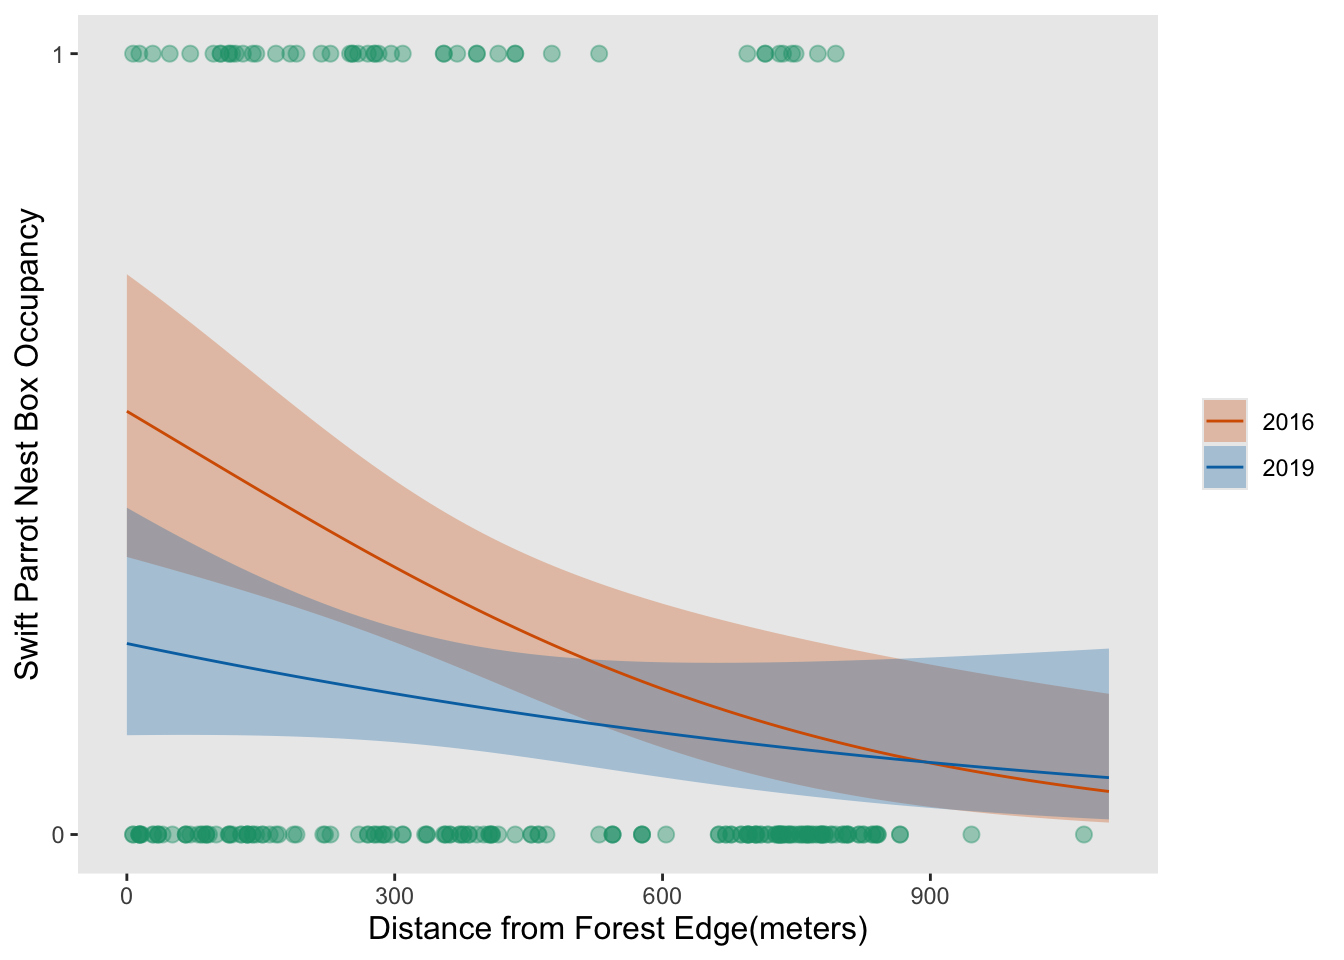
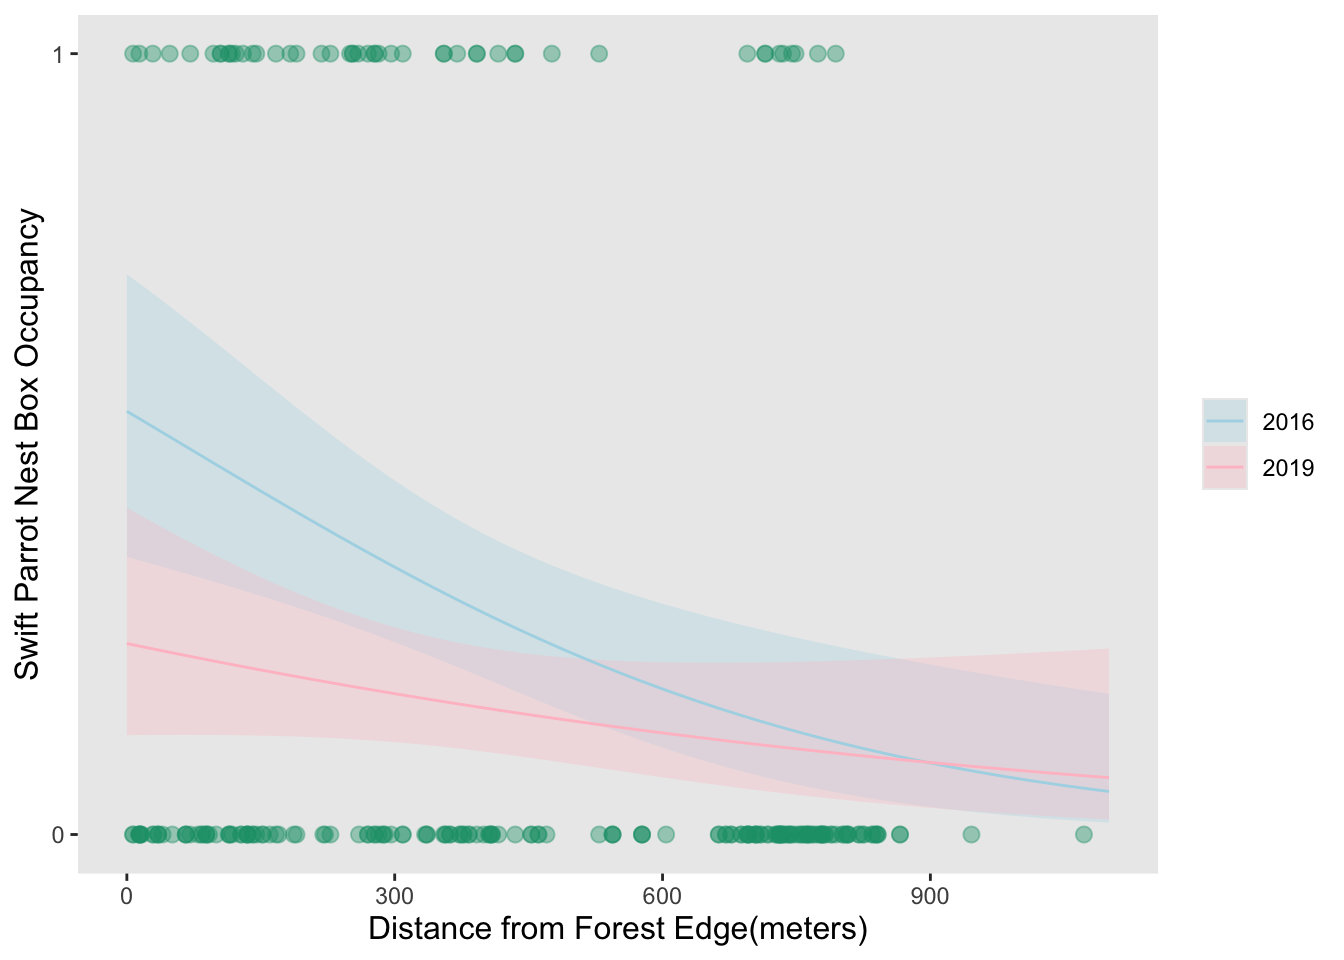
Fixing structire of READ me

Changed region(s): [[0.0938, 0.2812, 0.8438, 0.875], [0.875, 0.4062, 0.9375, 0.5312]]

diff --git a/code/finalwork.html b/code/finalwork.html
@@ -141,11 +141,12 @@ pre > code.sourceCode > span > a:first-child::before { text-decoration: underlin
 <section id="problem-1." class="level2">
 <h2 class="anchored" data-anchor-id="problem-1.">Problem 1.</h2>
 <p><strong>a)</strong></p>
-<p>In part 1 they likely used a Pearsons correlation test because they were comparing two continuous variables to test for presence of correlation. In part 2 they likely used a one-way ANOVA because they were comparing one continuous variable “between sources”, which is more than 2 groups.</p>
-<p><strong>b)</strong> Other information that would be helpful would be the sample size which would help reproducibility, statistical power(aka if the sample size is small then the results might not be as powerful) and reliability if there were outliers(small sample size would highly impacted by one outlier). And given they used a one-way ANOVA, another piece of information that would be helpful would be the F-value which represents the ratio of between group variance to within group variance. Essentially a larger F-value means the group means differ more relative to the variation within groups.</p>
-<p><strong>c)</strong> Part 1: The test resulted in a rejection of the null hypothesis indicating a significant correlation between distance from headwater (km) and annual total nitrogen load (kg year-1). The relationship was evaluated using Pearsons correlation test(r=correlation coefficient, p=0.03, α = significance level, n=sample size). This suggests that as water flows downstream, nitrogen concentrations change.</p>
+<p>In part 1 they likely used a simple linear regression because they were comparing two continuous variables, the p value likely tested if there was a significant linear relationship between the two variables. In part 2 they likely used a one-way ANOVA because they were comparing one continuous variable “between sources”, which is more than 2 groups.</p>
+<p><strong>b)</strong> Other information that would be helpful would be the Post-HOC test which would quantify which groups actually differ from eachother in nitrogen load. And given they used a one-way ANOVA, another piece of information that would be helpful would be the F-value which represents the ratio of between group variance to within group variance. Essentially a larger F-value means the group means differ more relative to the variation within groups.</p>
+<p><strong>c)</strong> Part 1:</p>
+<p>The test resulted in a rejection of the null hypothesis indicating a significant correlation between distance from headwater (km) and annual total nitrogen load (kg year-1). The relationship was evaluated using simple linear regression(test statistic, df= degrees of freedom, p=0.03, α = significance level, n=sample size). This suggests that sites farther from the headwater tended to have higher total nitrogen load.</p>
 <p>Part 2:</p>
-<p>We rejected the null hypothesis that there is no difference in average nitrogen load (kg year-1) between sources (urban land, atmospheric deposition, fertilizer, waste water treatment, and grasslands). This finding indicates that certain land uses or sources contribute more nitrogen to the watershed than others, which can have important implications for nutrient management. This was determined using a one-way ANOVA(F= F-statistic, p=0.02, α=significance level, df=degrees of freedom, SS=sum of squares, n=sample size).</p>
+<p>We rejected the null hypothesis that there is no difference in average nitrogen load (kg year-1) between sources (urban land, atmospheric deposition, fertilizer, waste water treatment, and grasslands). This finding indicates that certain land uses or sources contribute more nitrogen to the watershed than others, which can have important implications for nutrient management. This was determined using a one-way ANOVA(F= F-statistic, p=0.02, α=significance level, df=degrees of freedom, SS=sum of squares, n=sample size). The Post-HOC test would allow us to understand which sources are contributing most and least nitrogen.</p>
 </section>
 <section id="problem-2." class="level2">
 <h2 class="anchored" data-anchor-id="problem-2.">Problem 2.</h2>
@@ -171,11 +172,11 @@ pre > code.sourceCode > span > a:first-child::before { text-decoration: underlin
 <pre><code># A tibble: 5 × 3
   year  month mean_monthly_sst
   &lt;fct&gt; &lt;ord&gt;            &lt;dbl&gt;
-1 2018  Jan               15  
-2 2019  Nov               16.8
-3 2021  May               14.4
-4 2020  Apr               14.3
-5 2022  May               13.4</code></pre>
+1 2022  Dec               14.8
+2 2023  Feb               13  
+3 2018  Jun               15.5
+4 2021  Aug               17.7
+5 2021  Dec               14.4</code></pre>
 </div>
 <div class="sourceCode cell-code" id="cb4"><pre class="sourceCode r code-with-copy"><code class="sourceCode r"><span id="cb4-1"><a href="#cb4-1" aria-hidden="true" tabindex="-1"></a><span class="fu">str</span>(sst_clean) <span class="co">#show structure</span></span></code><button title="Copy to Clipboard" class="code-copy-button"><i class="bi"></i></button></pre></div>
 <div class="cell-output cell-output-stdout">
@@ -238,7 +239,7 @@ pre > code.sourceCode > span > a:first-child::before { text-decoration: underlin
 <section id="problem-3." class="level2">
 <h2 class="anchored" data-anchor-id="problem-3.">Problem 3.</h2>
 <p><strong>a)</strong> The 1s and 0s refer to Swift Parrot occupancy of the nest boxes. With the 1 referring to occupancy and 0 referring to no occupancy in the nest box.</p>
-<p><strong>b)</strong> The main difference between the species is that the Swift Parrots are a native and threatened species. The Tree Martins are also native but are nest competitors with the Swift Parrots, and then Common Starlings are an invasive species.</p>
+<p><strong>b)</strong> The main difference between the species is that the Swift Parrots are a native and threatened species. The Tree Martins are also native but are nest competitors with the Swift Parrots, and then Common Starlings are an invasive species and nest competitors.</p>
 <p><strong>c)</strong> The two seasons compared in the study are 2016 and 2019 which are breeding seasons for the Swift Parrots. They differ because in 2016 the nest boxes had been newly put in, while in 2019 the boxes were established and they could determine how the nest boxes were actually being used and by what species.</p>
 <p><strong>d)</strong></p>
 <table class="caption-top table">
@@ -416,8 +417,8 @@ model0  1 238.8318</code></pre>
 <span id="cb20-22"><a href="#cb20-22" aria-hidden="true" tabindex="-1"></a>  <span class="fu">scale_y_continuous</span>(<span class="at">name =</span> <span class="st">"Swift Parrot Nest Box Occupancy"</span>, <span class="co">#y axis label</span></span>
 <span id="cb20-23"><a href="#cb20-23" aria-hidden="true" tabindex="-1"></a>    <span class="at">limits =</span> <span class="fu">c</span>(<span class="dv">0</span>,<span class="dv">1</span>), <span class="at">breaks =</span> <span class="fu">c</span>(<span class="dv">0</span>,<span class="dv">1</span>)) <span class="sc">+</span></span>
 <span id="cb20-24"><a href="#cb20-24" aria-hidden="true" tabindex="-1"></a>  <span class="fu">scale_x_continuous</span>(<span class="at">name =</span> <span class="st">"Distance from Forest Edge(meters)"</span>) <span class="sc">+</span> <span class="co">#x axis label</span></span>
-<span id="cb20-25"><a href="#cb20-25" aria-hidden="true" tabindex="-1"></a>  <span class="fu">scale_fill_manual</span>(<span class="at">values =</span> <span class="fu">c</span>(<span class="st">"2016"</span> <span class="ot">=</span> <span class="st">"#D55E00"</span>, <span class="st">"2019"</span> <span class="ot">=</span> <span class="st">"#0072B2"</span>)) <span class="sc">+</span> <span class="co">#manually changing fill color</span></span>
-<span id="cb20-26"><a href="#cb20-26" aria-hidden="true" tabindex="-1"></a><span class="fu">scale_color_manual</span>(<span class="at">values =</span> <span class="fu">c</span>(<span class="st">"2016"</span> <span class="ot">=</span> <span class="st">"#D55E00"</span>, <span class="st">"2019"</span> <span class="ot">=</span> <span class="st">"#0072B2"</span>))<span class="sc">+</span> <span class="co">#manually changing line color</span></span>
+<span id="cb20-25"><a href="#cb20-25" aria-hidden="true" tabindex="-1"></a>  <span class="fu">scale_fill_manual</span>(<span class="at">values =</span> <span class="fu">c</span>(<span class="st">"2016"</span> <span class="ot">=</span> <span class="st">"lightblue"</span>, <span class="st">"2019"</span> <span class="ot">=</span> <span class="st">"pink"</span>)) <span class="sc">+</span> <span class="co">#manually changing fill color</span></span>
+<span id="cb20-26"><a href="#cb20-26" aria-hidden="true" tabindex="-1"></a><span class="fu">scale_color_manual</span>(<span class="at">values =</span> <span class="fu">c</span>(<span class="st">"2016"</span> <span class="ot">=</span> <span class="st">"lightblue"</span>, <span class="st">"2019"</span> <span class="ot">=</span> <span class="st">"pink"</span>))<span class="sc">+</span> <span class="co">#manually changing line color</span></span>
 <span id="cb20-27"><a href="#cb20-27" aria-hidden="true" tabindex="-1"></a><span class="fu">theme</span>(</span>
 <span id="cb20-28"><a href="#cb20-28" aria-hidden="true" tabindex="-1"></a>  <span class="at">panel.grid =</span> <span class="fu">element_blank</span>(), <span class="co">#remove all grid lines</span></span>
 <span id="cb20-29"><a href="#cb20-29" aria-hidden="true" tabindex="-1"></a>  <span class="at">axis.title =</span> <span class="fu">element_text</span>(<span class="at">size =</span> <span class="dv">12</span>), <span class="co">#clearer axis labels</span></span>
@@ -456,7 +457,7 @@ edge_distance | Predicted |     95% CI
           900 |      0.09 | 0.03, 0.23</code></pre>
 </div>
 </div>
-<p><strong>k)</strong> In 2016, the predicted probability of Swift Parrot nest box occupancy at the forest edge(0m) was 0.54((95% CI [0.36, 0.72])), whereas it dropped significantly to 0.09 (95% CI [0.04, 0.22]) at 900 m from the edge. In 2019 the occupancy was overall lower, with a probability of 0.24 (95% CI [0.13, 0.42]) at the edge and the same low probability of 0.09 (95% CI [0.03, 0.23]) at 900 m. As shown in Figure 1, Swift Parrots were more likely to occupy nest boxes closer to the forest edge, especially when they were first implemented in 2016, showing a strong negative relationship between edge distance and occupancy. This pattern may be influenced by competition, Common Starlings tend to occupy boxes near the forest edge, while Tree Martins occupy those farther away, particularly in 2019. The presence of these competitors likely contributes to the overall lower occupancy by Swift Parrots and affects patterns of nest box use.</p>
+<p><strong>k)</strong> In 2016, the predicted probability of Swift Parrot nest box occupancy at the forest edge(0m) was 0.54((95% CI [0.36, 0.72])), whereas it dropped significantly to 0.09 (95% CI [0.04, 0.22]) at 900 m from the edge. In 2019 the occupancy was overall lower, with a probability of 0.24 (95% CI [0.13, 0.42]) at the edge and the same low probability of 0.09 (95% CI [0.03, 0.23]) at 900 m. As shown in Figure 1, Swift Parrots were more likely to occupy nest boxes closer to the forest edge, especially when they were first implemented in 2016, showing a strong negative relationship between edge distance and occupancy. This pattern may be influenced by competition, Common Starlings tend to occupy boxes near the forest edge, while Tree Martins occupy those farther away, particularly in 2019. This shows an opposing relationship between Swift Parrots and Common Starlings due to their different nest box habits. The presence of these competitors likely contributes to the overall lower occupancy by Swift Parrots due to the widespread competition from 2016-2019 which affects patterns of nest box use.</p>
 </section>
 <section id="problem-4." class="level2">
 <h2 class="anchored" data-anchor-id="problem-4.">Problem 4.</h2>

diff --git a/README.md b/README.md
@@ -7,10 +7,14 @@ Saleh, Dina and Joseph Domagalski. 2021. “Concentrations, Loads, and Associate
 And the paper referred to in Problem 3 is:
 Stojanovic, Dejan et al. (2021). Do nest boxes breed the target species or its competitors? A case study of a critically endangered bird [Dataset]. Dryad. https://doi.org/10.5061/dryad.83bk3j9sb
 
-Data and file overview
+Data and file overview:
+
 Code = Includes the finalwork.qmd which is my code for the project
+
 Data = Includes both SST data and Nest Box data.
+
 ReadME = Information about the code
+
 ENVS-193DS_spring-2025_final
 
 Rendered output
